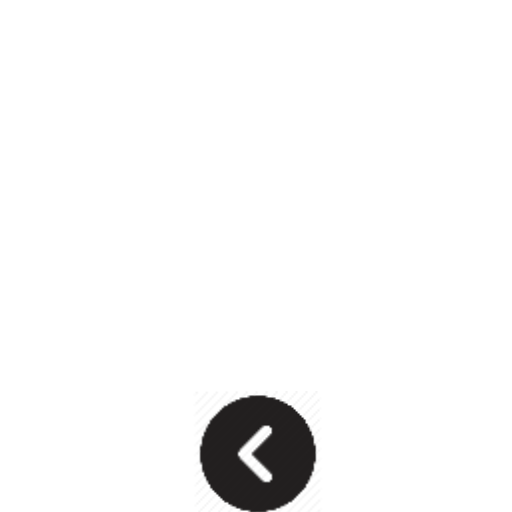
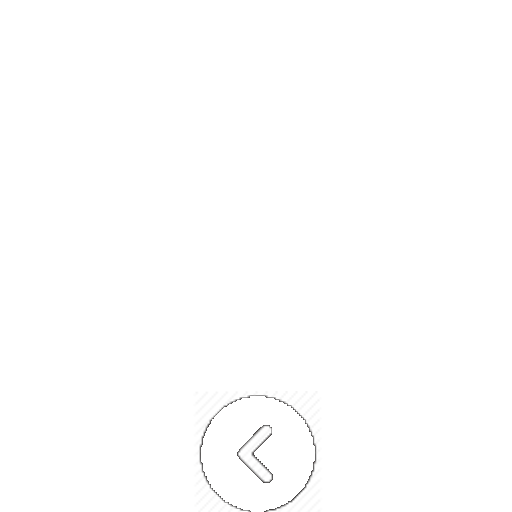
carousel changes

Changed region(s): [[0.375, 0.75, 0.625, 1.0]]

diff --git a/css.css b/css.css
@@ -22,9 +22,11 @@
 }
 a.carousel-control-next {
 content: url("prev.png");
+margin-top : 70px  !important;
 }
 a.carousel-control-prev {
 content: url("next.png");
+margin-top : 70px  !important;
 }
 .carousel-indicators li {
 
@@ -65,7 +67,7 @@ content: url("next.png");
     @media (min-width: 768px) {
         .card-columns {
             column-count: 2 !important;
-        
+
         }
     }
 
